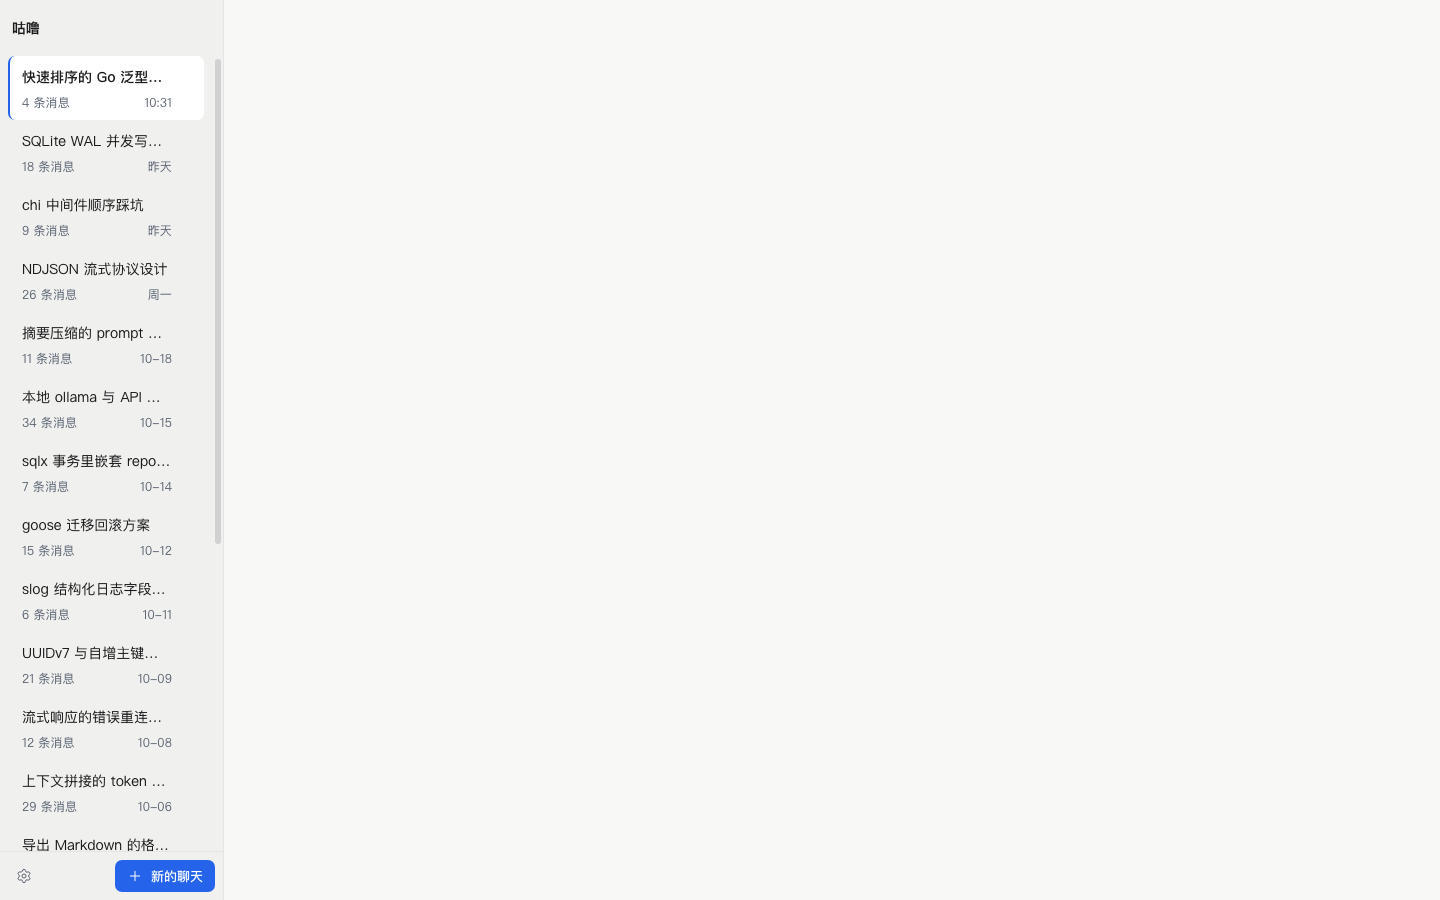
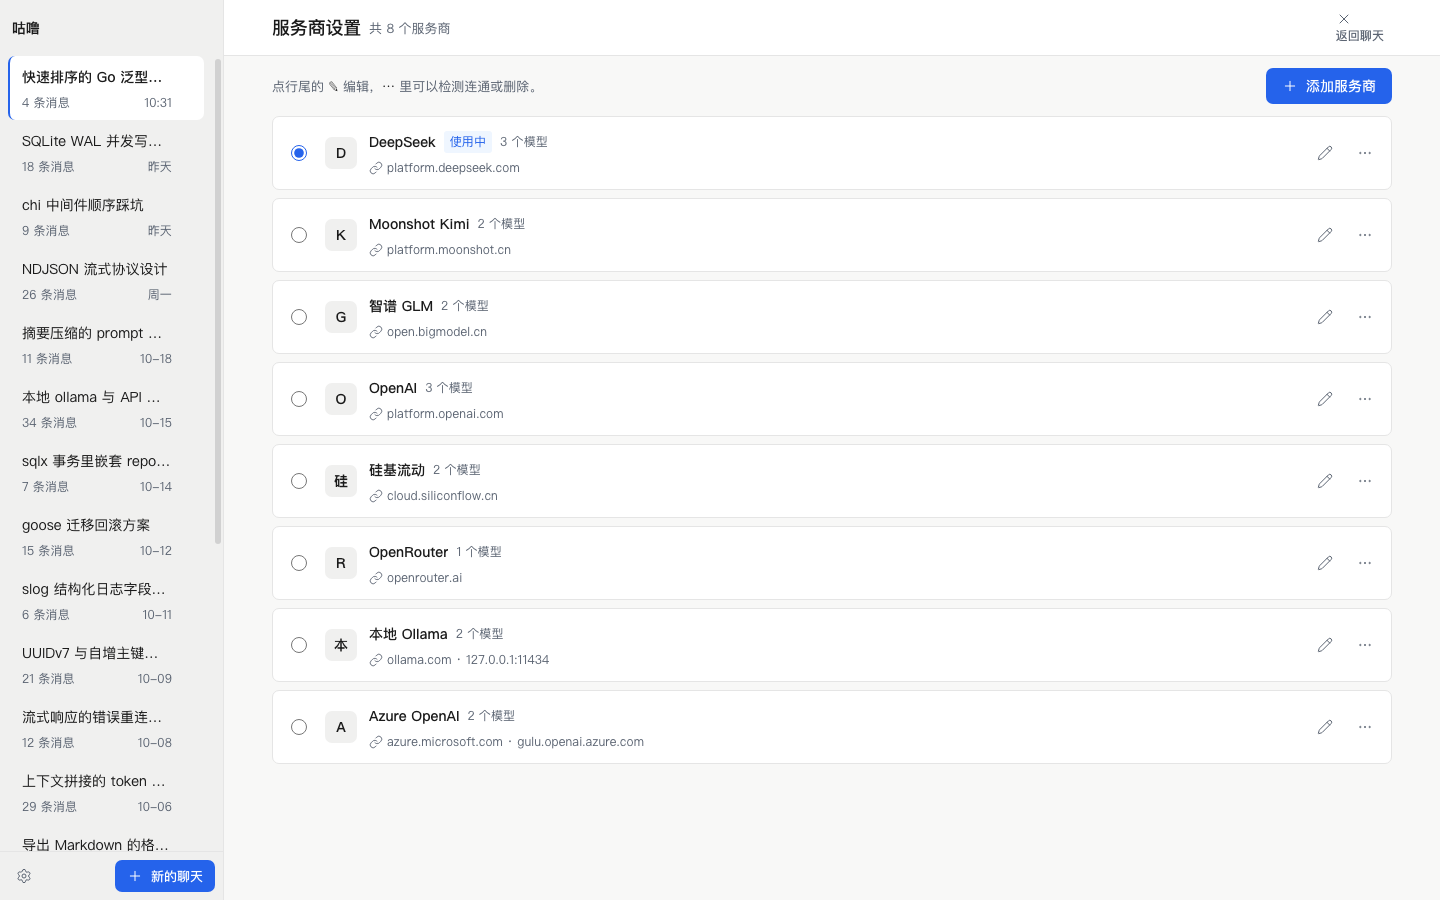
fix(原型): 修掉服务商设置整页空白 —— ModelPicker 收尾多一个 </div> 把设置面板挤出布局壳
症状：打开服务商设置整页空白；但 innerText / 高度 / 组件数量全部正常，
探针查不出（元素存在、被挤到 rect.top=900，而 body 是 overflow-hidden）。

根因：脚本改原型时两处结构损伤叠加——
1. 批量插圆点时吞掉了 <ul data-provider-list> 的 '>'
2. ModelPicker 精简选项时，旧的 </div> 收尾残留，多了一个 </div>
结果 data-pane=settings 从布局壳（depth 2）掉到 body 直接子级（depth 1）。

修复与验证：
- 删掉多余的 </div>；配平检查 EOF depth = 0、settings depth = 2
- 三档宽度实测设置页 rect.top = 0（在视口内）、圆点 8 个
- 重截全部 settings-* 与 chat-*-noactive 截图，主区深色像素 0.5%–3.4%（原为 0.000%）
- 圆点交互复测：点第 2 行 → 勾选与「使用中」迁移、toast 正确、弹层 2 个模型、0 报错

文档：02-ui设计.md §7 记下这个 bug 与两条新纪律（配平检查 + 查 rect.top）

diff --git a/docs/deliverables/mvp-ai-chat/02-ui原型.html b/docs/deliverables/mvp-ai-chat/02-ui原型.html
@@ -763,7 +763,6 @@
                   <svg data-check class="hidden size-4 shrink-0 text-primary"><use href="#i-check"/></svg>
                 </button>
               </div>
-              </div>
             </div>
 
             <!-- @component SendButton · 发送（图标栏最右侧，输入为空时禁用） -->

diff --git a/docs/deliverables/mvp-ai-chat/02-ui设计.md b/docs/deliverables/mvp-ai-chat/02-ui设计.md
@@ -414,6 +414,17 @@ App
 - **未覆盖范围**：Markdown 复杂语法（表格、脚注、嵌套引用）与代码高亮配色——实现时用 markdown-it + shiki，配色沿用 `--color-surface-alt` + `--color-ink`；列表"全部加载完"的底部提示文案（决定不加，保持安静）；批量删除（需求未提，见待确认点）。
 - **查看方式**：**直接双击打开**（自包含，不需要起本地服务）。桌面用右下角「原型控制条」切状态（「服务商设置（右侧视图）」一组：详情 / 新增 / 拉取模型 / 拉取失败 / 校验错误 / 空）；窄屏用 URL 参数：`?view=settings&settings=fetch-error&state=error&list=loading&sidebar=open&scroll=bottom`（归档截图统一加 `&bar=0` 隐藏控制条）。
 - **自查结论**：对照 `templates/原型自查清单.md` 逐条过（A–H 共 39 条）。v9 改动：14 个图标路径换成 Lucide 官方路径（`lucide-static` 1.61 的原始 `<path>`，viewBox 24、stroke 1.5、round caps 保持），逐张截图复核机器人头（天线 + 双眼 + 两侧耳）、方形停止、分享（托盘 + 上箭头）渲染正常；`build-prototype.sh` 六项自检仍全绿。
+  **v15 修掉一个自己造成的结构 bug（值得记下来）**：给 8 行服务商批量插圆点时用脚本改 HTML，`<ul data-provider-list>` 的 `>` 被吞掉、ModelPicker 收尾时多留了一个 `</div>` —— 结果是 **`<div data-pane="settings">` 被挤出布局壳、落到 `<body>` 直接子级**（`rect.top = 900`，而 `body` 是 `overflow-hidden`），**服务商设置整页空白**，但 `innerText` / `height` / 组件数量全都正常，探针查不出来。定位方法：数 `<div` 与 `</div>` 的**配平深度**（EOF 深度应为 0，`data-pane=settings` 深度应为 2 —— 实际是 -1 / 1）。
+  **两条新纪律**：① 脚本改原型后必须跑配平检查：
+  ```bash
+  python3 - <<'EOF'
+  import re; d=0
+  for i,l in enumerate(open('docs/deliverables/mvp-ai-chat/02-ui原型.html',encoding='utf-8'),1):
+      c=re.sub(r'<!--.*?-->','',l); d+=len(re.findall(r'<div\b',c))-len(re.findall(r'</div>',c))
+  print('EOF depth =', d, '（必须 0）')
+  EOF
+  ```
+  ② 自查不能只看 `innerText` 与 `height`，**必须查 `getBoundingClientRect().top` 在视口内**（`0 ≤ top < 视口高`）——被挤出视口的元素"存在但看不见"，这是本类 bug 的唯一特征。
   **v15 改动并验证**（激活的服务商 + 模型引用带服务商身份，ADR-0015）：① 8 行服务商各有一个 `size-4` 原生 radio（实测 `16×16`、`accentColor=rgb(37,99,235)`、首行 `checked`），点第 2 行后**勾选与「使用中」徽标一起迁移、全表始终恰好 1 个激活**（实测 `checked` 计数 1、`li[data-active]` 计数 1），toast「已切换到 Moonshot Kimi」；② 两处「无激活」横幅默认 `display:none`，控制条切到「无激活」后出现（`bg=rgb(255,251,235)`、文案 13px），同时 `textarea.disabled=true`、模型按钮与发送按钮 `disabled=true`；③ 模型弹层只留激活服务商的 2 个模型、头部显示「DeepSeek 的模型 · …」、选项副标题清零；④ 换模型痕迹两变体可切（主动切换 / 服务商回落）；⑤ 三档宽度 `scrollWidth - clientWidth = 0`（聊天页与设置页各测一次）；⑥ `build-prototype.sh` 七项全绿，产物 160KB；⑦ 390 下横幅文字换行后高 65px、「去选择」按钮仍完整可见（右缘 374/390）；⑧ 修掉一次自己造成的结构破坏：脚本插入圆点时吞掉了 `<ul data-provider-list>` 的 `>`，导致圆点不在 `<li>` 内——已修复并复测（`closest('li')` 正常）。
   **v12 改动并验证**（两处减法）：① 列表页去掉「使用中 / 使用」——实测 `[data-use-provider]` 计数 0、页面文本不含「使用中」，行内按钮只剩 ✎ + ⋯（含抽屉内 2 项共 4 个 button 元素）；② 编辑页去掉模型参数——实测 `input[inputmode="decimal"]` 计数 0、模型行 3 条、行高 54px（原两行版 128px），编辑页因此一屏能看完全部字段；③ 删除 `i-circle-check` 图标符号（无引用）；④ 500 / 768 / 1440 三档 `scrollWidth - clientWidth = 0`；⑤ `build-prototype.sh` 七项全绿，产物 154KB（-10KB）。
   **v11 改动并验证**（服务商设置改两级页面）：① 列表页 8 行、每行「icon + 名称 + 模型数 + 官网 + 使用中/使用 + ✎ + ⋯」；② 交互实测——✎ → `step=edit`（标题随视图变）、「← 服务商列表」→ `step=list`、⋯ → `panelOpen=true aria-expanded=true`、检测连通 → toast「DeepSeek 连通正常，312ms」（`bg-ink`）、使用 → toast「已切换到 Moonshot Kimi」、删除 → 确认弹层且名字注入正确；③ 失败语气实测 `bg-danger` + 感叹号图标（控制条「连通失败」）；④ 无横向溢出：500 / 768 / 1440 实测 `scrollWidth - clientWidth = 0`，行宽 468 / 704 / 1120；⑤ **官网链接在原型里是 `<span>` 而非 `<a href="http…">`**——`build-prototype.sh` 的"无外部引用"门禁会把 `href="http…"` 判为外部资源；实现时按映射表换成 `<a :href="provider.website" target="_blank" rel="noopener noreferrer">`，DOM 与类名不变；⑥ 尺寸仍走 token：行内按钮 `size-7`、行 `py-3`、徽标 `h-7 text-caption`、抽屉 `w-40 rounded-lg shadow-overlay`。
